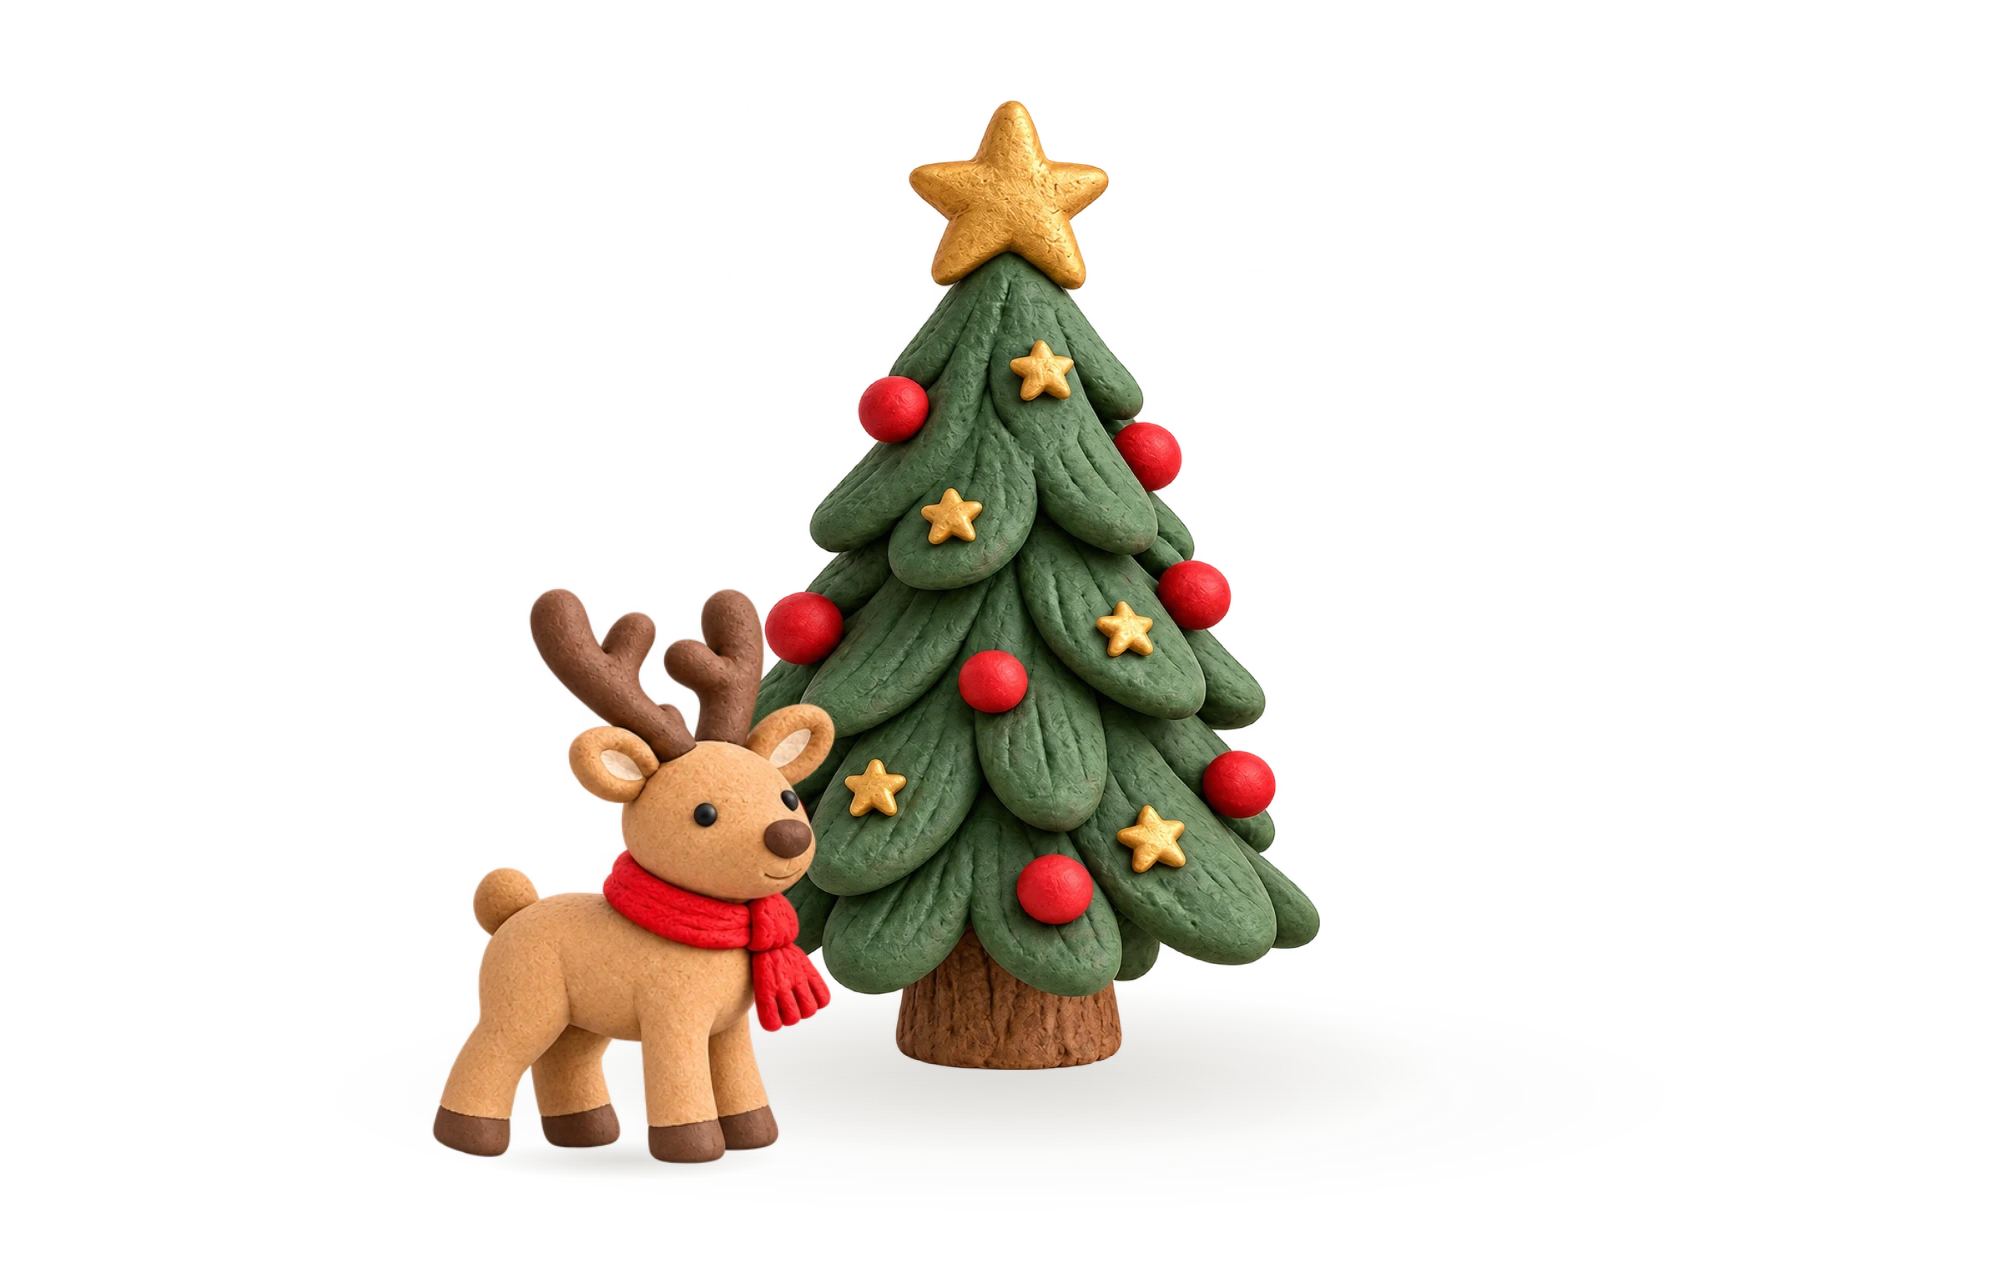
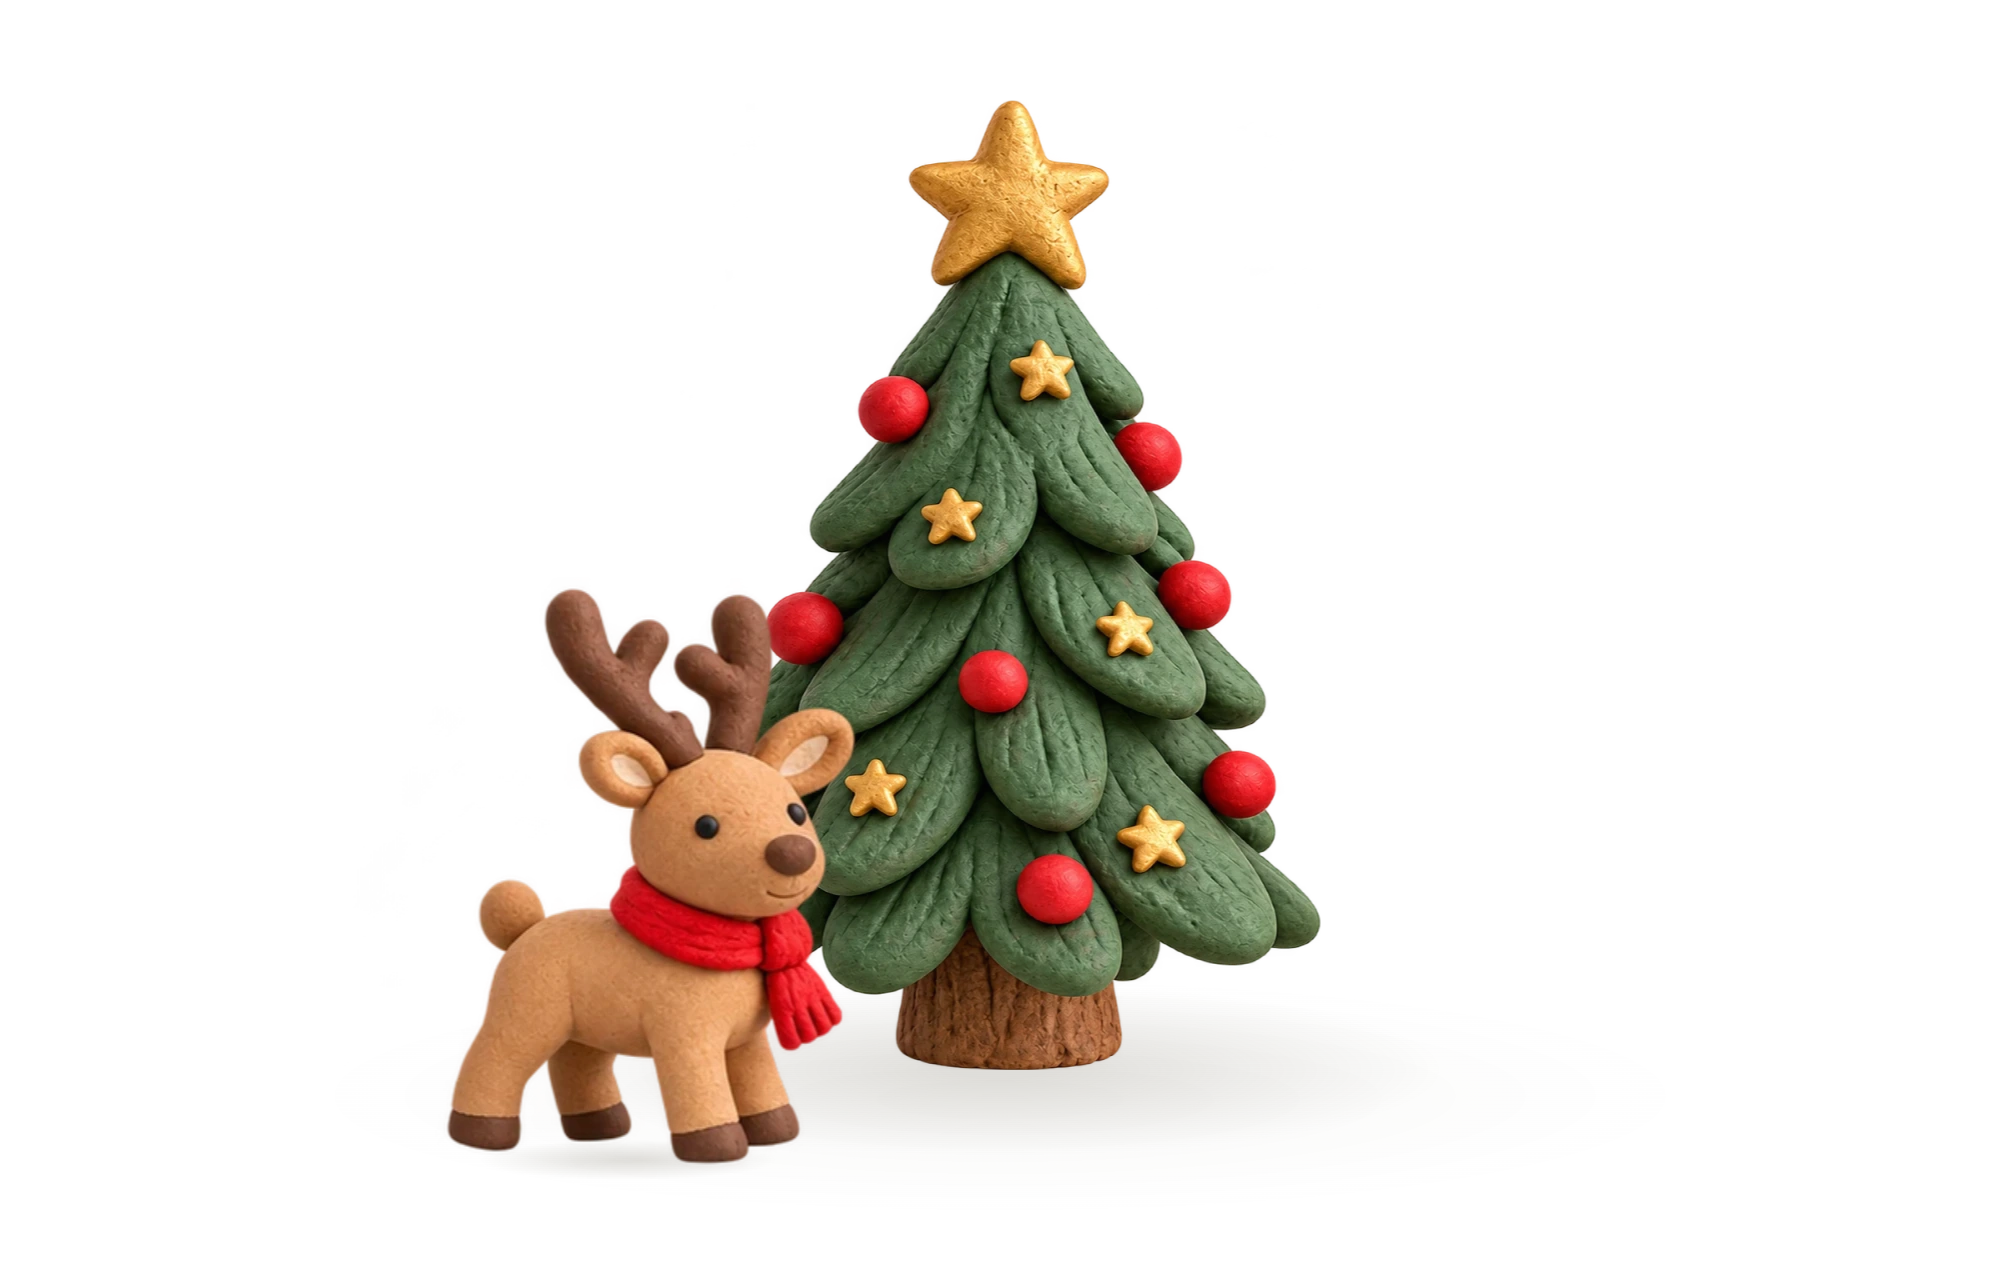
Add grounded reindeer walk candidate with consistent travel speed

Changed region(s): [[0.217, 0.4375, 0.434, 0.9062]]

diff --git a/public/home-motion.js b/public/home-motion.js
@@ -1,3 +1,5 @@
+import { createRoute, motionAt, retimeRoute } from "./home-walk.mjs";
+
 (() => {
   "use strict";
   const canvas = document.querySelector("#christmas-scene"),
@@ -8,11 +10,10 @@
   if (!ctx || !snowCtx) return;
   const reduce = matchMedia("(prefers-reduced-motion: reduce)"),
     sprites = {},
-    CYCLE = 27,
     TAU = Math.PI * 2;
   let paused = reduce.matches,
     ready = false,
-    elapsed = 8,
+    elapsed = 0,
     last = 0,
     raf = 0,
     lastScene = -1,
@@ -20,11 +21,14 @@
     inView = true;
   let snowWidth = 0,
     snowHeight = 0;
-  let sceneWidth = 1000, sceneLeft = 0;
+  let sceneWidth = 1000, sceneLeft = 0, route;
   function resizeScene() {
     const bounds = stage.getBoundingClientRect();
     sceneWidth = bounds.width * 640 / bounds.height;
     sceneLeft = (1000 - sceneWidth) / 2;
+    const nextRoute = createRoute(sceneLeft, sceneWidth, bounds.height / 640);
+    elapsed = retimeRoute(elapsed, route, nextRoute);
+    route = nextRoute;
     canvas.width = Math.round(sceneWidth * 2);
     canvas.height = 1280;
     ctx.setTransform(2, 0, 0, 2, -sceneLeft * 2, 0);
@@ -52,10 +56,10 @@
     attention = 0,
   ) {
     const frame =
-      moving > 0.01 ? ((Math.floor((phase + 1 / 24) * 8) % 8) + 8) % 8 : 0;
-    const im = sprites["walk-views"].im,
+      moving > 0.01 ? ((Math.floor(phase * 12) % 12) + 12) % 12 : 0;
+    const im = sprites["walk-candidate"].im,
       cw = im.width / 4,
-      ch = im.height / 2,
+      ch = im.height / 3,
       sx = (frame % 4) * cw,
       sy = Math.floor(frame / 4) * ch;
     // Registration offsets keep the generated poses on the same ground line.
@@ -63,11 +67,12 @@
     ctx.save();
     ctx.translate(x - 120, feet - 298);
     ctx.scale(size, size);
-    ctx.translate(
-      [0, 8, 2, 6, 6, 12, 8, 10][frame],
-      [0, 5, -1, -1, 17, 26, 24, 24][frame],
-    );
-    const draw = () => ctx.drawImage(im, sx, sy, cw, ch, 0, 0, 384, 512);
+    // Shared scale; measured eye anchors remove grid drift without resizing the head.
+    const eyeX = [246.14,234.81,221.69,204.61,246.97,234.78,222.57,204.14,247.28,234.58,222.66,207.70];
+    const floorY = [359,357,359,358,354,354,356,353,349,344,350,350];
+    const poseScale = 1.36;
+    const draw = () => ctx.drawImage(im, sx, sy, cw, ch,
+      264-eyeX[frame]*poseScale, 499-floorY[frame]*poseScale, cw*poseScale, ch*poseScale);
     if (attention < 0.001) {
       draw();
     } else {
@@ -96,7 +101,7 @@
     return u * u * (3 - 2 * u);
   }
   function emotion(t) {
-    const clock = Math.floor((((t % CYCLE) + CYCLE) % CYCLE) * 12) / 12;
+    const clock = Math.floor(t * 12) / 12;
     const anticipate =
       smooth(8.0, 8.25, clock) * (1 - smooth(8.3, 8.65, clock));
     const look = smooth(8.55, 9.55, clock) * (1 - smooth(12.25, 13.2, clock));
@@ -111,7 +116,7 @@
     };
   }
   function tree(t, hello) {
-    const clock = Math.floor((((t % CYCLE) + CYCLE) % CYCLE) * 12) / 12;
+    const clock = Math.floor(t * 12) / 12;
     const bow = (delay) =>
       smooth(9.7 + delay, 10.65 + delay, clock) *
       (1 - smooth(11.35 + delay, 12.65 + delay, clock));
@@ -163,50 +168,13 @@
     // Diffuse contact shadows establish the floor without a hard stage edge.
     shadow(500, 535, 222, 43, 0.14);
     shadow(500, 548, 350, 60, 0.035);
-    const clock = Math.floor((((t % CYCLE) + CYCLE) % CYCLE) * 12) / 12;
-    let walkTime,
-      pace = 1;
-    if (clock < 6) {
-      walkTime = clock;
-    } else if (clock < 8) {
-      const u = (clock - 6) / 2;
-      walkTime = 6 + 2 * u - u * u;
-      pace = 1 - u;
-    } else if (clock < 13) {
-      walkTime = 7;
-      pace = 0;
-    } else if (clock < 15) {
-      const u = (clock - 13) / 2;
-      walkTime = 7 + u * u;
-      pace = u;
-    } else {
-      walkTime = clock - 7;
-    }
-    // Keep the meeting point fixed; extend entrances/exits to the viewport edges.
-    const extra = Math.max(0, (sceneWidth - 1000) / 2);
-    const x = walkTime <= 7
-      ? 314 - (434 + extra) * (1 - walkTime / 7)
-      : 314 + (806 + extra) * (walkTime - 7) / 13,
-      feet = 580,
-      scale = 0.24;
-    // Hold the complete character pose on twos, including its travel, so feet stay planted.
-    const speed = pace * 62,
-      distance = x + 120,
-      phase = distance / ((152 * scale) / 0.76) - 1 / 24;
-    const feeling = emotion(t);
-    const actor = () => {
-      shadow(x, feet, (62 * scale) / 0.2, 10, 0.15);
-      deer(
-        x,
-        feet,
-        phase,
-        Math.min(1, speed / 25),
-        feeling.headAngle,
-        feeling.attention,
-      );
-    };
-    tree(t, feeling.hello);
-    actor();
+    const motion = motionAt(t, route);
+    const feeling = emotion(motion.story);
+    // Pose cadence follows travelled distance, including ease-in and ease-out.
+    const phase = (motion.x - route.meeting) / 76;
+    tree(motion.story, feeling.hello);
+    shadow(motion.x,580,74,10,.15);
+    deer(motion.x,580,phase,motion.speed>0.01?1:0,feeling.headAngle,feeling.attention);
   }
 
   function resizeSnow() {
@@ -265,7 +233,7 @@
   reduce.addEventListener("change", () => {
     paused = reduce.matches;
     if (paused) {
-      elapsed = 10.8;
+      elapsed = 2.8;
       if (ready) draw(elapsed);
       snowCtx.clearRect(0, 0, snowWidth, snowHeight);
     }
@@ -290,7 +258,7 @@
   resizeSnow();
   resizeScene();
   Promise.all(
-    ["tree", "walk-views"].map(
+    ["tree", "walk-candidate"].map(
       (name) =>
         new Promise((resolve, reject) => {
           const im = new Image();
@@ -311,7 +279,7 @@
   )
     .then(() => {
       ready = true;
-      elapsed = paused ? 10.8 : 8;
+      elapsed = paused ? 2.8 : 0;
       draw(elapsed);
       stage.classList.add("motion-ready");
       sync();

diff --git a/public/index.html b/public/index.html
@@ -9,7 +9,7 @@
     <link rel="icon" href="assets/wordmark.svg" type="image/svg+xml">
     <link rel="preload" href="assets/eb-garamond.ttf" as="font" type="font/ttf" crossorigin>
     <link rel="preload" href="/assets/christmas-motion/tree.webp" as="image">
-    <link rel="preload" href="/assets/christmas-motion/walk-views.webp" as="image">
+    <link rel="preload" href="/assets/christmas-motion/walk-candidate.webp" as="image">
     <link rel="stylesheet" href="styles.css">
   </head>
   <body class="homepage">
@@ -41,6 +41,6 @@
       </nav>
       <p>© 2026 Santa Books</p>
     </footer>
-    <script src="/home-motion.js" defer></script>
+    <script src="/home-motion.js" type="module"></script>
   </body>
 </html>

diff --git a/docs/walk-candidate.md b/docs/walk-candidate.md
@@ -1,0 +1,25 @@
+# Grounded walk candidate
+
+This branch is a visual candidate for comparison with production at `407afe6`.
+It must be reviewed before merging; creating the preview does not publish it to
+the production domain.
+
+The built-in `image_gen.imagegen` tool generated one transparent 4 × 3 atlas
+using the approved clay reindeer master as its identity reference. The PNG was
+converted to WebP at quality 92. All twelve cells retain one shared scale;
+measured eye and floor anchors correct translation drift in the generated grid.
+The runtime advances poses by distance and cruises at 38 CSS pixels/second.
+The five-second greeting retains the closed-mouth glance and the tree's bow.
+
+This improves registration and speed consistency but is not a rigged animation
+with exact planted-foot constraints. Residual pose variation and foot sliding
+remain visual review criteria. The previous atlas stays available for comparison.
+
+## Generation prompt
+
+Use case: identity-preserve.
+Asset: production replacement-animation atlas for the EXACT clay reindeer in the reference, 12 frames in an exact 4-column by 3-row grid, read left-to-right then top-to-bottom. Real transparent alpha background, no scenery, no labels, no floor, no cast shadows. Fixed camera facing the reindeer's left side in the SAME right-facing three-quarter view as the reference. Equal cells and scale, every cell includes the whole character with padding.
+
+Task: a slow grounded FOUR-BEAT WALK IN PLACE, one complete looping gait. This is one physical stop-motion puppet repositioned 12 times. Give real sequential weight-bearing poses, not 12 arbitrary standing variants. At least two hooves always bear weight; only one leg swings clear at a time. Plant hooves FLAT. Stance legs gradually sweep backward relative to the body; swinging leg bends at knee, clears the ground, reaches forward, then plants. Near foreleg at frame1 is forward planted; frames2-4 move that planted hoof backward; frame5 heel lift; frame6 bent passing; frame7 next contact. Repeat with opposing legs across frames7-12. Hind feet follow in four-beat order rather than synchronous hopping. Small body rise/fall at most 1% of character height. Keep the torso looking solid and weight supported, not rubbery limbs or walking on tips. End pose leads smoothly into frame1.
+
+LOCK IDENTITY: identical antler branch count and silhouette in ALL twelve frames; identical eyes, nose, CLOSED small smile (NO mouth opening, NO expression changes, NO blinking); identical head size/shape; identical round plump belly, short legs, ears and tail. Same bright red knitted scarf with same two ends, length and knot. Same warm tan fine porous clay, brown antlers and hooves, cream inner ears. Lighting upper-left remains absolutely fixed. The HEAD AND ANTLERS are nearly identical across all frames; most motion is below the scarf. Do not turn to profile, do not change face angle, do not redesign the character. No texture flicker, cracks, fur, or shiny plastic. Prioritize matching the approved character and anatomically coherent foot contacts.

diff --git a/README.md b/README.md
@@ -51,12 +51,14 @@ Changing or publishing policy text requires task-specific authorization.
 ## Homepage motion
 
 `public/home-motion.js` draws the approved clay reindeer/tree exchange from two
-local WebP assets (about 612 KiB combined). The character uses eight generated,
+local WebP assets (about 671 KiB combined). The character uses twelve generated,
 registered whole-body poses; the face stays intact during the subtle upward
 glance. The tree answers with a star-led bow. Canvas is transparent so the scene
 blends into the existing homepage background. The drawing surface spans the
 viewport; entrances and exits extend to the browser edges while the tree and
-character scale stay fixed.
+character scale stay fixed. Travel cruises at 38 CSS pixels per second, with
+two-second acceleration/deceleration and distance-driven pose selection.
+`public/home-walk.mjs` owns this route; viewport width changes the loop duration.
 
 Snow spans the homepage viewport behind text and links with no pointer events.
 Reduced-motion users receive a still scene and no snowfall. There is no visible
@@ -70,7 +72,10 @@ Asset provenance: tree from the approved clay art; walk poses generated with the
 built-in image generation tool using that reindeer as the identity reference.
 The approved prototype supplied the pose registration, glance, and tree timing.
 
-Verification: `node --check public/home-motion.js`, `git diff --check`, and browser
+Candidate provenance and limitations: [walk candidate](docs/walk-candidate.md).
+
+Verification: `node --test tests/home-walk.test.mjs`,
+`node --check public/home-motion.js`, `git diff --check`, and browser
 QA at 390 × 844 and 1440 × 1000 (also overflow checks at widths 320 and 768).
 Check delayed-asset loading, reduced motion, blocked WebP fallback, disabled JavaScript,
 and the Privacy/Terms/Support links when changing this integration.
